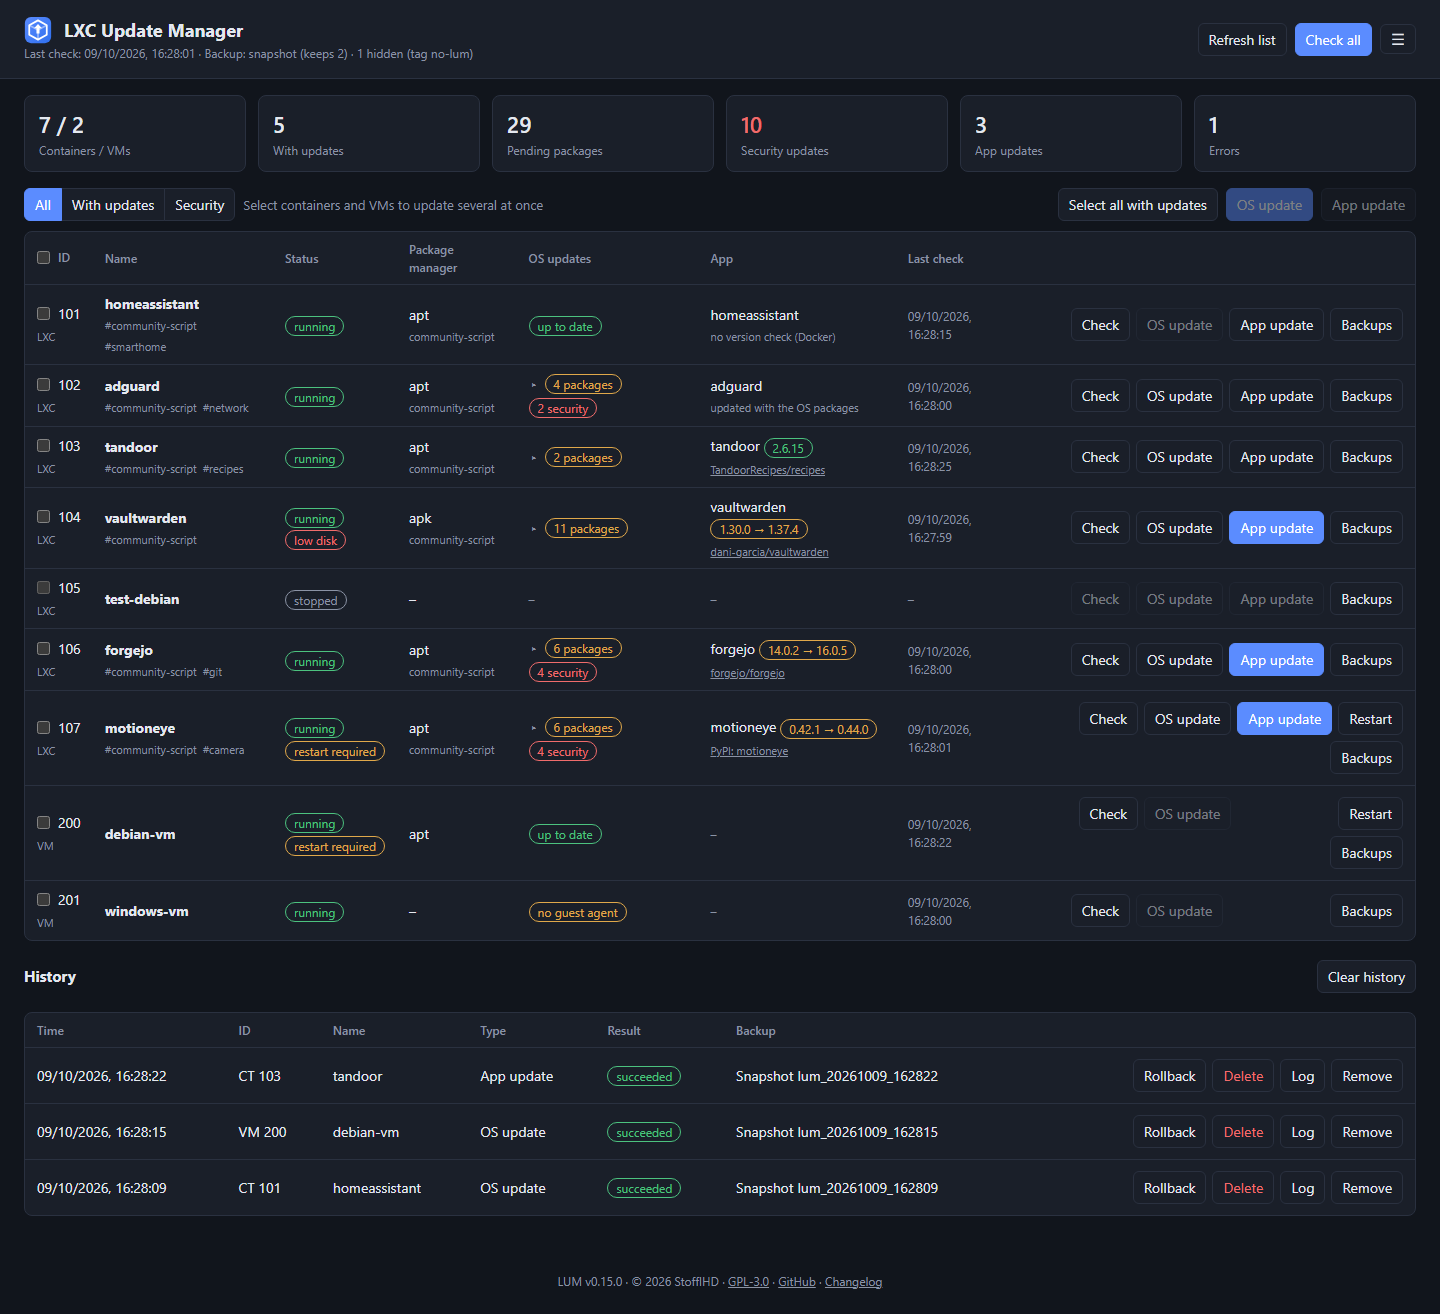
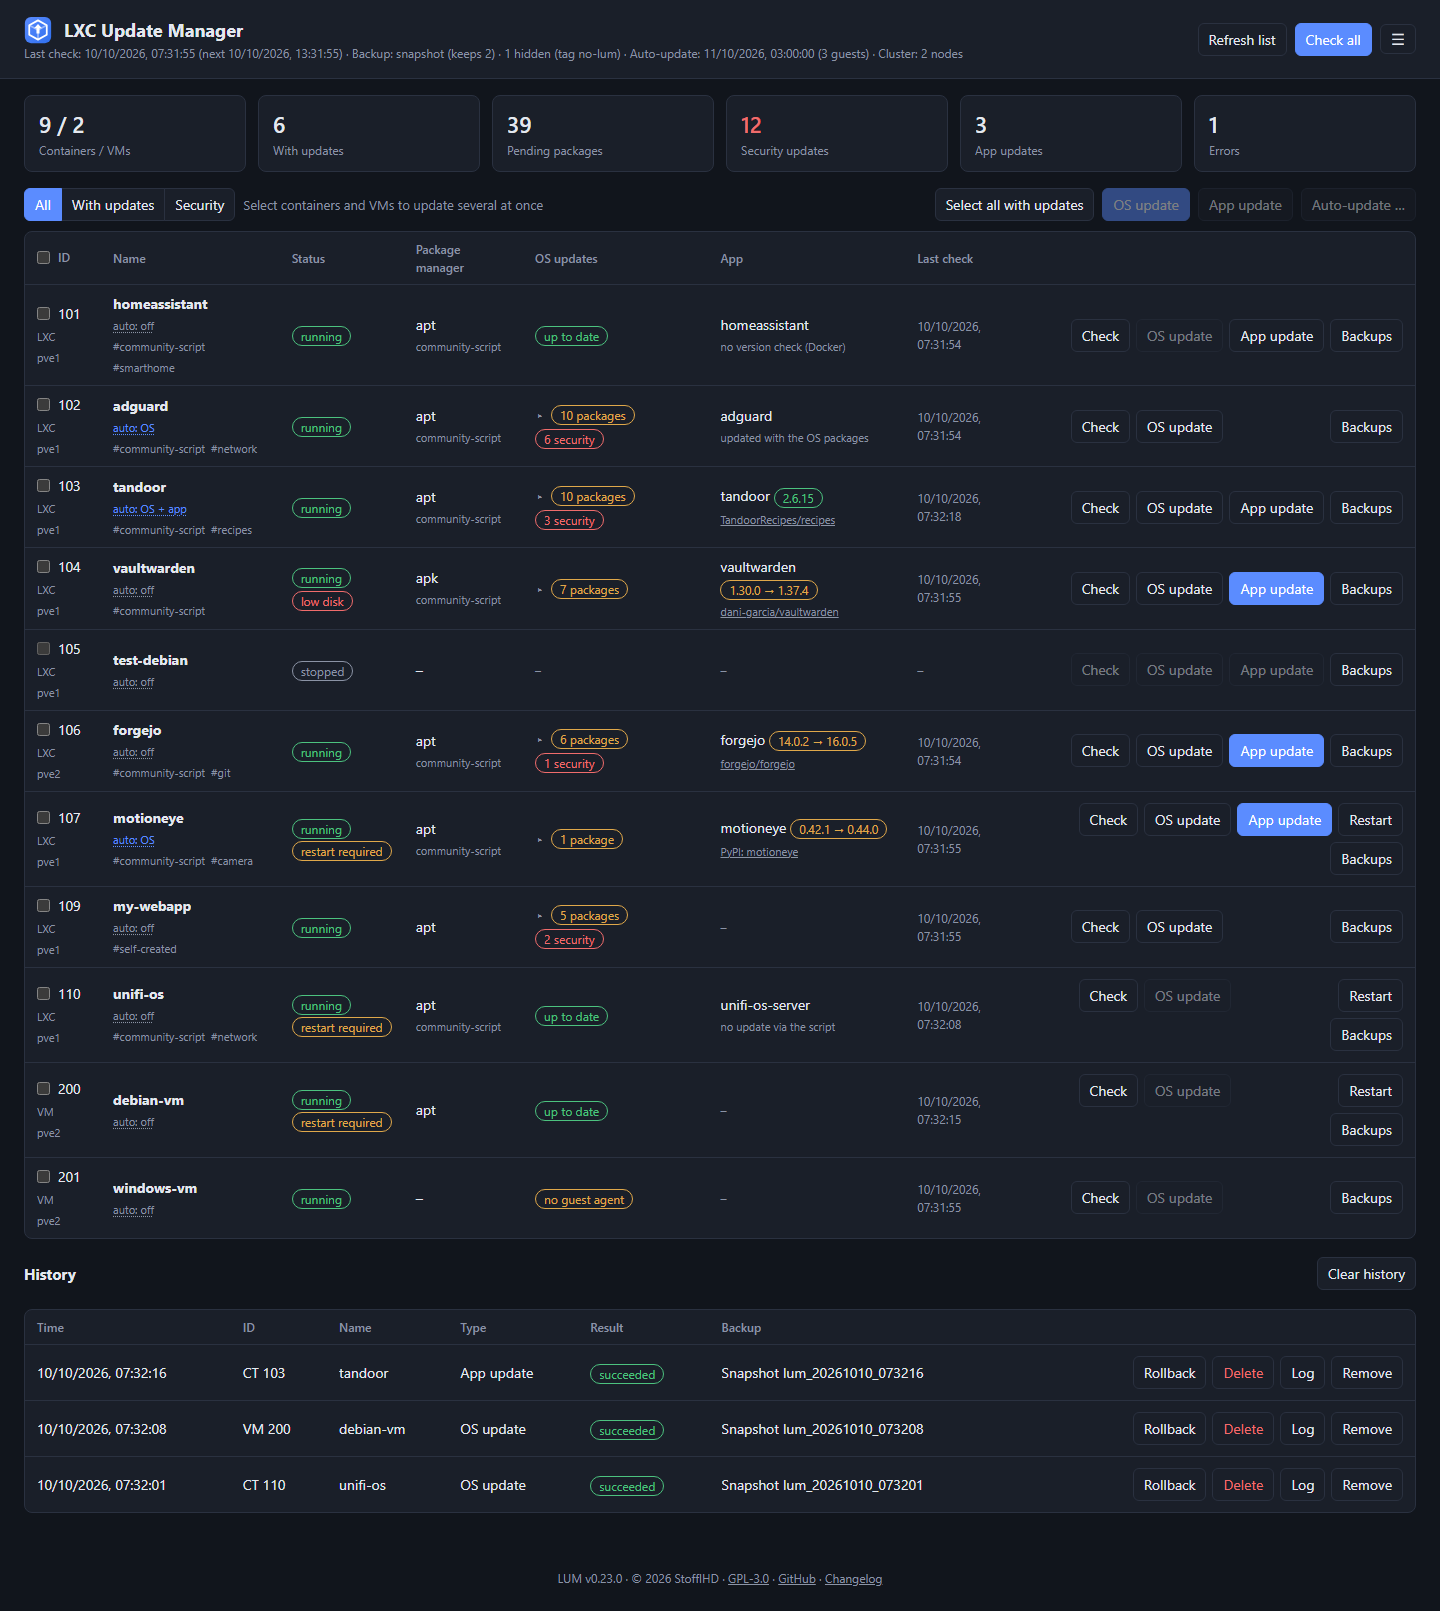
docs up to date for 0.23.0, release notes rendering fixes
- Usage: header, Clear selection, OS updates column states; README: server log
- New screenshots incl. the release notes dialog
- Release notes: nested link text and quotes / GitHub notes rendered

diff --git a/app/static/app.js b/app/static/app.js
@@ -490,7 +490,7 @@ function markdown(text) {
   const inline = (s) => esc(s)
     .replace(/`([^`]+)`/g, "<code>$1</code>")
     .replace(/\*\*([^*]+)\*\*/g, "<strong>$1</strong>")
-    .replace(/\[([^\]]+)\]\((https?:\/\/[^\s)]+)\)/g, '<a href="$2" target="_blank" rel="noopener">$1</a>')
+    .replace(/\[((?:[^[\]]|\[[^\]]*\])+)\]\((https?:\/\/[^\s)]+)\)/g, '<a href="$2" target="_blank" rel="noopener">$1</a>')
     .replace(/\b(breaking( changes?)?|migration|migrate|deprecated|important|warning|backup)\b/gi, "<mark>$1</mark>");
   const out = [];
   let list = false;
@@ -503,6 +503,14 @@ function markdown(text) {
       continue;
     }
     if (list) { out.push("</ul>"); list = false; }
+    // "> text" quotes, GitHub alerts "> [!NOTE]" become a label
+    const quote = /^\s*>\s?(.*)$/.exec(line);
+    if (quote) {
+      const alert = /^\[!(NOTE|TIP|IMPORTANT|WARNING|CAUTION)\]\s*$/i.exec(quote[1]);
+      if (alert) out.push(`<p class="quote"><strong>${alert[1][0]}${alert[1].slice(1).toLowerCase()}:</strong></p>`);
+      else if (quote[1].trim()) out.push(`<p class="quote">${inline(quote[1])}</p>`);
+      continue;
+    }
     const head = /^(#{1,6})\s+(.*)$/.exec(line);
     if (head) out.push(`<h${head[1].length <= 2 ? 4 : 5}>${inline(head[2])}</h${head[1].length <= 2 ? 4 : 5}>`);
     else if (line.trim()) out.push(`<p>${inline(line)}</p>`);

diff --git a/app/static/style.css b/app/static/style.css
@@ -145,6 +145,7 @@ label.sel input { margin: 0; accent-color: var(--accent); }
 #upd-notes .note ul { margin: 4px 0; padding-left: 18px; font-family: inherit; max-height: none; }
 #upd-notes .note p { margin: 4px 0; }
 #upd-notes .note code { font-size: 12px; background: var(--bg); padding: 0 3px; border-radius: 3px; }
+#upd-notes .note p.quote { margin: 0; padding: 2px 0 2px 10px; border-left: 3px solid var(--border); color: var(--muted); }
 #upd-notes mark { background: none; color: var(--warn); font-weight: 600; }
 #upd-notes .notes-foot { padding: 8px 12px; font-size: 12px; }
 #upd-clean-row { margin-top: 14px; }

diff --git a/docs/usage.md b/docs/usage.md
@@ -6,15 +6,17 @@
 
 | Where | Control | What it does |
 |---|---|---|
-| Top right | **Refresh list** | Re-reads only the list of containers/VMs (fast). New running guests are checked right away; the result is shown below the status line. |
+| Top right | user · **Log out** | The logged-in user; ends the session (not shown when the login is turned off). |
+| | **Refresh list** | Re-reads only the list of containers/VMs (fast). New running guests are checked right away; the result is shown below the status line. |
 | | **Check all** | Re-reads the list and checks every running guest for OS and app updates. Also runs automatically every `LUM_CHECK_INTERVAL_MINUTES`, counted from the last check – the time is stored, so a restart of LUM does not start a check; it only re-reads the list (new guests are checked). |
 | | **☰** menu | *Theme:* System / Light / Dark (stored in the browser) · *Configuration:* **Settings** (see [Configuration](configuration.md#in-the-web-ui)), **Export …** / **Import …** (see [Export and import](configuration.md#export-and-import)) · *Actions:* **Run auto-update now**, **Send test notification** (see [Notifications](configuration.md#notifications-telegram)), **Server log** (see [Troubleshooting](troubleshooting.md#logs)) · *Account:* **Change password** (not shown without login). |
 | Status line | | Last check (and the next one), backup mode, guests hidden by the `no-lum` tag (hover for their IDs), the next automatic update, the cluster nodes, result of **Refresh list**, and a yellow note when the host script is outdated (in a cluster: on which node). |
 | Above the list | **All** · **With updates** · **Security** | Filter the list: every guest, only guests with OS or app updates, only guests with security updates (stored in the browser). Bulk selections only include visible guests. |
-| | **Select all with updates** · **OS update** · **App update** | Update several guests in one go – see [Updating several guests](#updating-several-guests). |
+| | **Select all with updates** · **Clear selection** · **OS update** · **App update** | Update several guests in one go – see [Updating several guests](#updating-several-guests). |
 | | **Auto-update …** | Update the selected guests automatically in the maintenance window – see [Automatic updates](#automatic-updates-maintenance-window). |
 | Each row | ☐ `ID` · `LXC`/`VM` · node | Checkbox for a bulk update (the one in the header selects all running guests). Container or VM; in a [cluster](installation.md#proxmox-cluster) also its node. VMs need the QEMU guest agent, otherwise **no guest agent** is shown. |
 | | `auto: off` · `auto: OS` · `auto: OS + app` | Below the name: click to set the [automatic updates](#automatic-updates-maintenance-window) of this guest. |
+| | OS updates column | `up to date`, `▸ N packages` (see below), `not checked` (not checked since it started), `no guest agent` (VM without QEMU guest agent), `Error` (the last check failed – hover for the reason). Stopped guests show `–`. |
 | | `▸ N packages` · `N security` | Pending OS updates – click to list them. **security**: how many come from a security repository (see [Security updates](#security-updates)); they are marked in the list. |
 | | App column | Installed app version (green) or `installed → latest` (orange) with a link to the release page, PyPI or npm. **held back**: the community script pins this version; **pre-release**: the installed version is newer than the latest stable one. Without a version source: *updated with the OS packages*, *no version check (Docker)* or *Version unknown* – see [App updates](#app-updates). |
 | | **Check** | Checks this one guest. |
@@ -109,6 +111,8 @@ They come from the same place as the version: GitHub, Codeberg or GitLab release
 (cached for an hour). PyPI, npm, Git tags and apps without a version check have no
 release texts – then the dialog shows none. Bulk updates don't show them. The notes are
 shown as plain text with simple formatting; nothing from them is run in the browser.
+
+<img alt="App update dialog with the release notes of the new versions" src="images/release-notes.png" width="70%">
 
 ### Where the version comes from
 

diff --git a/README.md b/README.md
@@ -36,7 +36,8 @@ rollback with one click and checks for free space and pending restarts.
   deleted from there; clearing it can delete all of LUM's snapshots and backups too
 - **Secure by design** – the host only allows a fixed set of commands, LUM touches only
   its own snapshots and backups; login with lockout and CSRF protection
-- **Responsive** web UI with light and dark theme and a settings page, works behind a reverse proxy
+- **Responsive** web UI with light and dark theme, a settings page and the server log,
+  works behind a reverse proxy
 - **Easy installer** for the Proxmox host and an `update` command inside the container
 
 <p>

diff --git a/CHANGELOG.md b/CHANGELOG.md
@@ -18,6 +18,15 @@ Update an installation with `update` inside the LUM container. When an entry say
 - Every job (update, rollback, restore, restart) is logged with its start and result.
 - API: `GET /api/logs`.
 
+### Fixed
+- Release notes: links whose text has brackets (`[[GHSA-…]](…)`) and quotes / GitHub
+  notes (`> [!NOTE]`) are shown properly instead of as raw text.
+
+### Documentation
+- Usage: header (user, Log out), *Clear selection*, the states of the OS updates column;
+  README: server log. New screenshots (auto-update, nodes, menu) and one of the release
+  notes.
+
 ## [0.22.1] – 2026-10-10
 
 ### Changed
